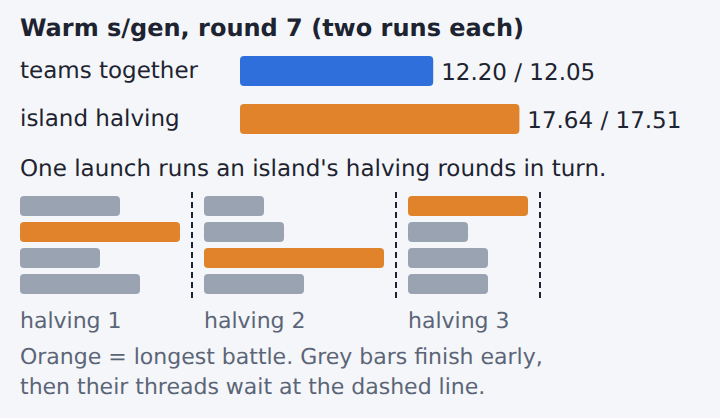
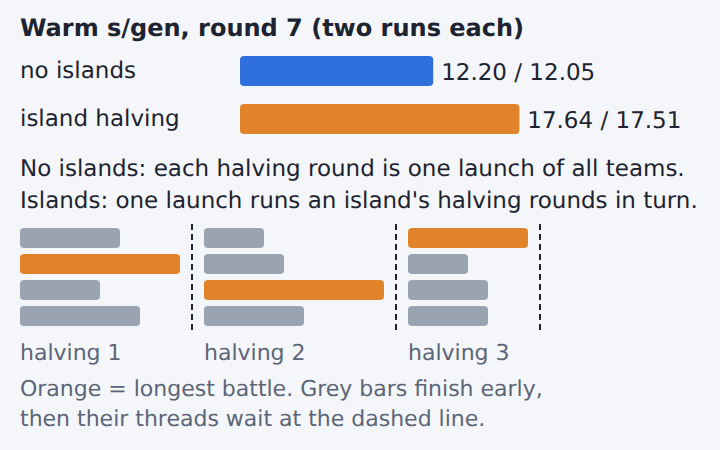
gpu round 9: page fixes from check round 16 (six bugs with runs, earlier A/B named, study rounds defined, stack flag numbers, no-islands label)
Claude-Session: https://claude.ai/code/session_01Ws3K6hiVf42Evxx3QjPVsr

diff --git a/docs/gpu-round9-explained.md b/docs/gpu-round9-explained.md
@@ -15,7 +15,7 @@ Five ideas from GPU study rounds 7-9, one picture each. Sources: `out/gpu-study.
 
 ## Island halving costs 5.4 s per generation
 
-![Round 7 warm s/gen: all teams together 12.20 and 12.05, island halving 17.64 and 17.51](gpu-r9-island.png)
+![Round 7 warm s/gen: no islands 12.20 and 12.05, island halving 17.64 and 17.51](gpu-r9-island.png)
 
 Island halving splits the teams into groups (islands) and runs each island's halving rounds in one launch.
 
